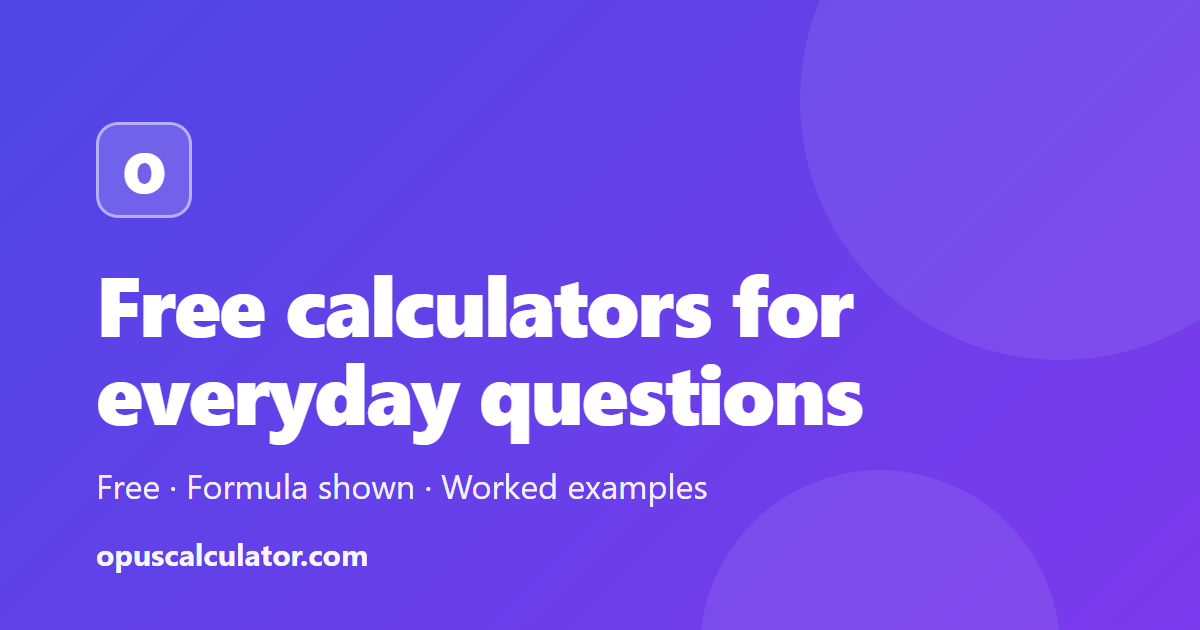
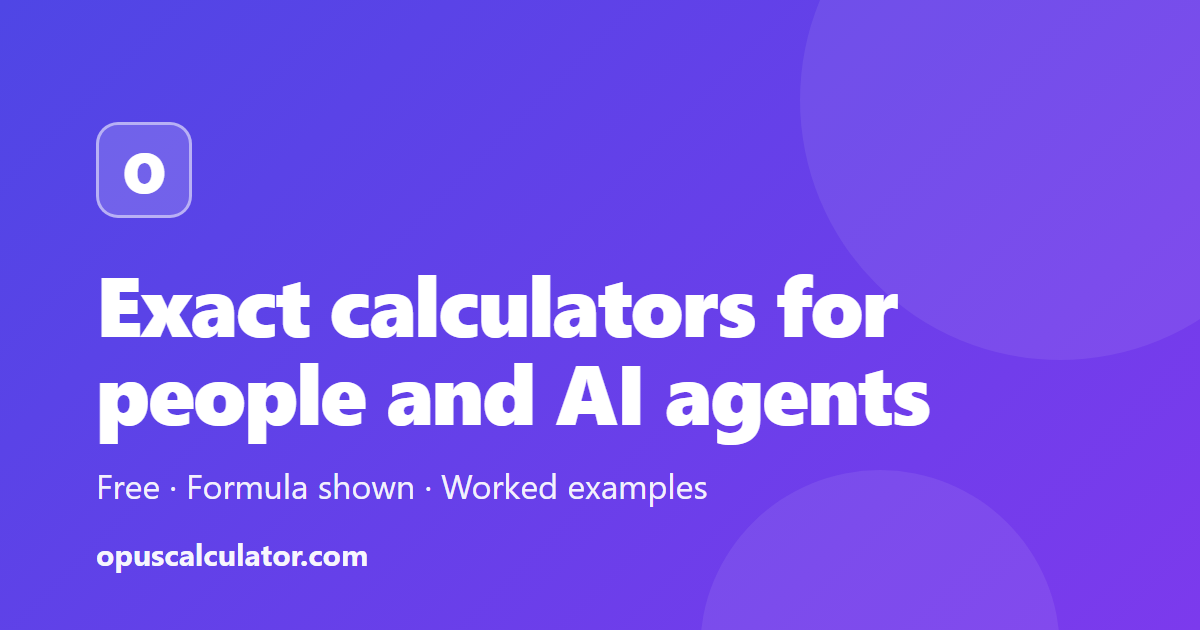
Agent-first home, site search, /agents page and new tagline (#15)
- Home: hero "Exact calculators for people and AI agents" with Search and Connect-your-AI actions, category cards with calculator counts, an MCP band with the server address and the Claude Code command.
- Site search: header button and the / key open a dialog that filters the published calculators from /calculators.json (fetched on first open).
- /agents/: MCP set-up, llms.txt, JSON index, markdown copies, citing; in the footer and sitemap through STATIC_PAGES. Header link "For AI agents".
- Tagline, titles, footer, llms.txt intro and social image updated; CLAUDE.md brand section and ADR 005 record it.

Tests: E2E for the home promise, search by key and Enter, agents page via the footer, axe on each. verify 977 tests, E2E 29, a11y clean, visual 12 re-recorded.

Claude-Session: https://claude.ai/code/session_01UF6i2FPDbMYapApAuPDnok

Changed region(s): [[0.0617, 0.573, 0.7708, 0.7238], [0.0925, 0.4222, 0.7708, 0.5429]]

diff --git a/tests/e2e/home.spec.ts b/tests/e2e/home.spec.ts
@@ -1,0 +1,34 @@
+import { expect, test } from '@playwright/test';
+import { expectNoAxeViolations } from './helpers';
+
+// Home page, site search and the agents page (UX rebuild, agent-first branding).
+test.use({ viewport: { width: 1280, height: 800 } });
+
+test('the home page leads with the agent-first promise, search and the MCP address', async ({ page }) => {
+  await page.goto('/');
+  await expect(page.getByRole('heading', { level: 1 })).toContainText('Exact calculators for people and AI agents');
+  await expect(page.getByLabel('MCP server address')).toHaveValue('https://opuscalculator.com/mcp');
+  await expectNoAxeViolations(page);
+});
+
+test('search opens with the / key, filters the published calculators and opens one', async ({ page }) => {
+  await page.goto('/');
+  await page.keyboard.press('/');
+  const dialog = page.getByRole('dialog', { name: 'Search calculators' });
+  await expect(dialog).toBeVisible();
+  await dialog.getByRole('searchbox').fill('mortg');
+  await expect(dialog.getByRole('link', { name: /Mortgage Calculator/ })).toBeVisible();
+  await expect(dialog.getByRole('link', { name: /BMI Calculator/ })).toHaveCount(0);
+  await expectNoAxeViolations(page);
+  await dialog.getByRole('searchbox').press('Enter');
+  await expect(page).toHaveURL(/\/calculators\/mortgage-calculator\//);
+});
+
+test('the agents page explains the MCP set-up and is linked from the footer', async ({ page }) => {
+  await page.goto('/');
+  await page.getByRole('contentinfo').getByRole('link', { name: 'For AI agents' }).click();
+  await expect(page).toHaveURL(/\/agents\//);
+  await expect(page.getByRole('heading', { level: 1 })).toHaveText('Opus Calculator for AI agents');
+  await expect(page.getByText('claude mcp add --transport http opus-calculator https://opuscalculator.com/mcp')).toBeVisible();
+  await expectNoAxeViolations(page);
+});

diff --git a/src/lib/markdown.ts b/src/lib/markdown.ts
@@ -100,7 +100,7 @@ export function llmsTxt(configs: readonly CalculatorConfig[], options: LlmsOptio
   const lines: string[] = [
     `# ${SITE_NAME}`,
     '',
-    `> Free online calculators for everyday questions: finance, health, math, conversions and more. Every calculator shows its default result in plain HTML, uses exact decimal arithmetic, and explains its method with a worked example.`,
+    `> Exact, free calculators for people and AI agents: finance, health, math, conversions and more, readable as web pages and as markdown. Every calculator shows its default result in plain HTML, uses exact decimal arithmetic, and explains its method with a worked example.`,
     '',
     `- Site: ${SITE_URL}`,
     `- Every calculator page has a markdown copy at the same address with the trailing slash replaced by .md, for example ${absoluteUrl(markdownPath('bmi-calculator'))}`,

diff --git a/src/lib/static-pages.ts b/src/lib/static-pages.ts
@@ -14,9 +14,17 @@ export interface StaticPage {
 
 export const STATIC_PAGES: readonly StaticPage[] = [
   {
+    path: '/agents/',
+    label: 'For AI agents',
+    title: 'Opus Calculator for AI agents: MCP server, llms.txt and JSON index',
+    description:
+      'Connect an AI assistant or agent to Opus Calculator: a read-only MCP server that runs the same exact calculators, plus llms.txt, markdown copies and a JSON index.',
+    footer: true,
+  },
+  {
     path: '/about/',
     label: 'About',
-    title: 'About Opus Calculator: free calculators for everyday questions',
+    title: 'About Opus Calculator: exact calculators for people and AI agents',
     description: 'Who runs Opus Calculator, why it exists, what the site promises, and how each calculator is built and tested.',
     footer: true,
   },

diff --git a/scripts/brand/og-template.html b/scripts/brand/og-template.html
@@ -24,7 +24,7 @@
 </head>
 <body>
   <div class="mark">O</div>
-  <h1>Free calculators for everyday questions</h1>
+  <h1>Exact calculators for people and AI agents</h1>
   <p>Free · Formula shown · Worked examples</p>
   <div class="site">opuscalculator.com</div>
 </body>

diff --git a/CLAUDE.md b/CLAUDE.md
@@ -30,7 +30,7 @@ A programmatic-SEO calculator platform. ~3,900+ calculators across 14 categories
 
 ## BRAND POSITIONING
 
-Renamed on 26 Nov 2026 from calculator365.net to Opus Calculator, at opuscalculator.com (owner decision, domain bought). Write the name as "Opus Calculator" in titles, the header and structured data. The old "365" wordplay and the tagline "a calculator for every day of the year" are retired: use plain copy such as "free calculators for everyday questions". The GitHub repository was renamed to `basicappcompany/opuscalculator` on 26 Nov 2026 (the old address redirects); the Cloudflare Pages project `opuscalculator` was created on 27 Nov 2026 (production branch `main`, build `npm run build`, output `dist`, automatic deployments on) and the first production deployment is live at https://opuscalculator.com (the domain's DNS is on Cloudflare; a Cloudflare redirect rule sends `www.opuscalculator.com` to the apex with a 301, and the `www` DNS record must stay proxied for it to apply); `docs/adr/004-rename-to-opus-calculator.md` records the decision. Browser storage keys are now `opus-theme`, `opus-currency` and `opus-currency-detected`.
+Renamed on 26 Nov 2026 from calculator365.net to Opus Calculator, at opuscalculator.com (owner decision, domain bought). Write the name as "Opus Calculator" in titles, the header and structured data. The old "365" wordplay and the tagline "a calculator for every day of the year" are retired: use plain copy such as "free calculators for everyday questions". The GitHub repository was renamed to `basicappcompany/opuscalculator` on 26 Nov 2026 (the old address redirects); the Cloudflare Pages project `opuscalculator` was created on 27 Nov 2026 (production branch `main`, build `npm run build`, output `dist`, automatic deployments on) and the first production deployment is live at https://opuscalculator.com (the domain's DNS is on Cloudflare; a Cloudflare redirect rule sends `www.opuscalculator.com` to the apex with a 301, and the `www` DNS record must stay proxied for it to apply); `docs/adr/004-rename-to-opus-calculator.md` records the decision. Tagline since 27 Nov 2026 (owner request, `docs/adr/005-agent-first-positioning.md`): "exact calculators for people and AI agents"; "free calculators for everyday questions" is retired. New copy, titles and the social image use the new line; the home page, `/agents/` and the "Use with AI" dialog carry the MCP address. Browser storage keys are now `opus-theme`, `opus-currency` and `opus-currency-detected`.
 
 ## RELEASE FLOW
 

diff --git a/docs/adr/005-agent-first-positioning.md b/docs/adr/005-agent-first-positioning.md
@@ -1,0 +1,15 @@
+# ADR 005: Agent-first positioning
+
+Date: 27 Nov 2026. Status: accepted (owner request).
+
+## Decision
+
+Opus Calculator is positioned as "exact calculators for people and AI agents". The calculator page is tool-first (title, one answer sentence, the tool, actions on the result card), and every page offers a "Use with AI" dialog. The home page leads with search and the MCP address, `/agents/` documents the MCP server, `llms.txt`, the JSON index and markdown copies, and the footer links it.
+
+## Why
+
+The MCP server, `llms.txt` and markdown copies already existed but were not visible in the product or the brand. The earlier "free calculators for everyday questions" copy described neither the exactness nor the agent access that set the site apart.
+
+## Consequences
+
+Titles, the header, the footer, the social image and `llms.txt` use the new line. The old tagline is retired like the "365" one in ADR 004. Search reads `/calculators.json`, so it lists published calculators only (rule 6).
